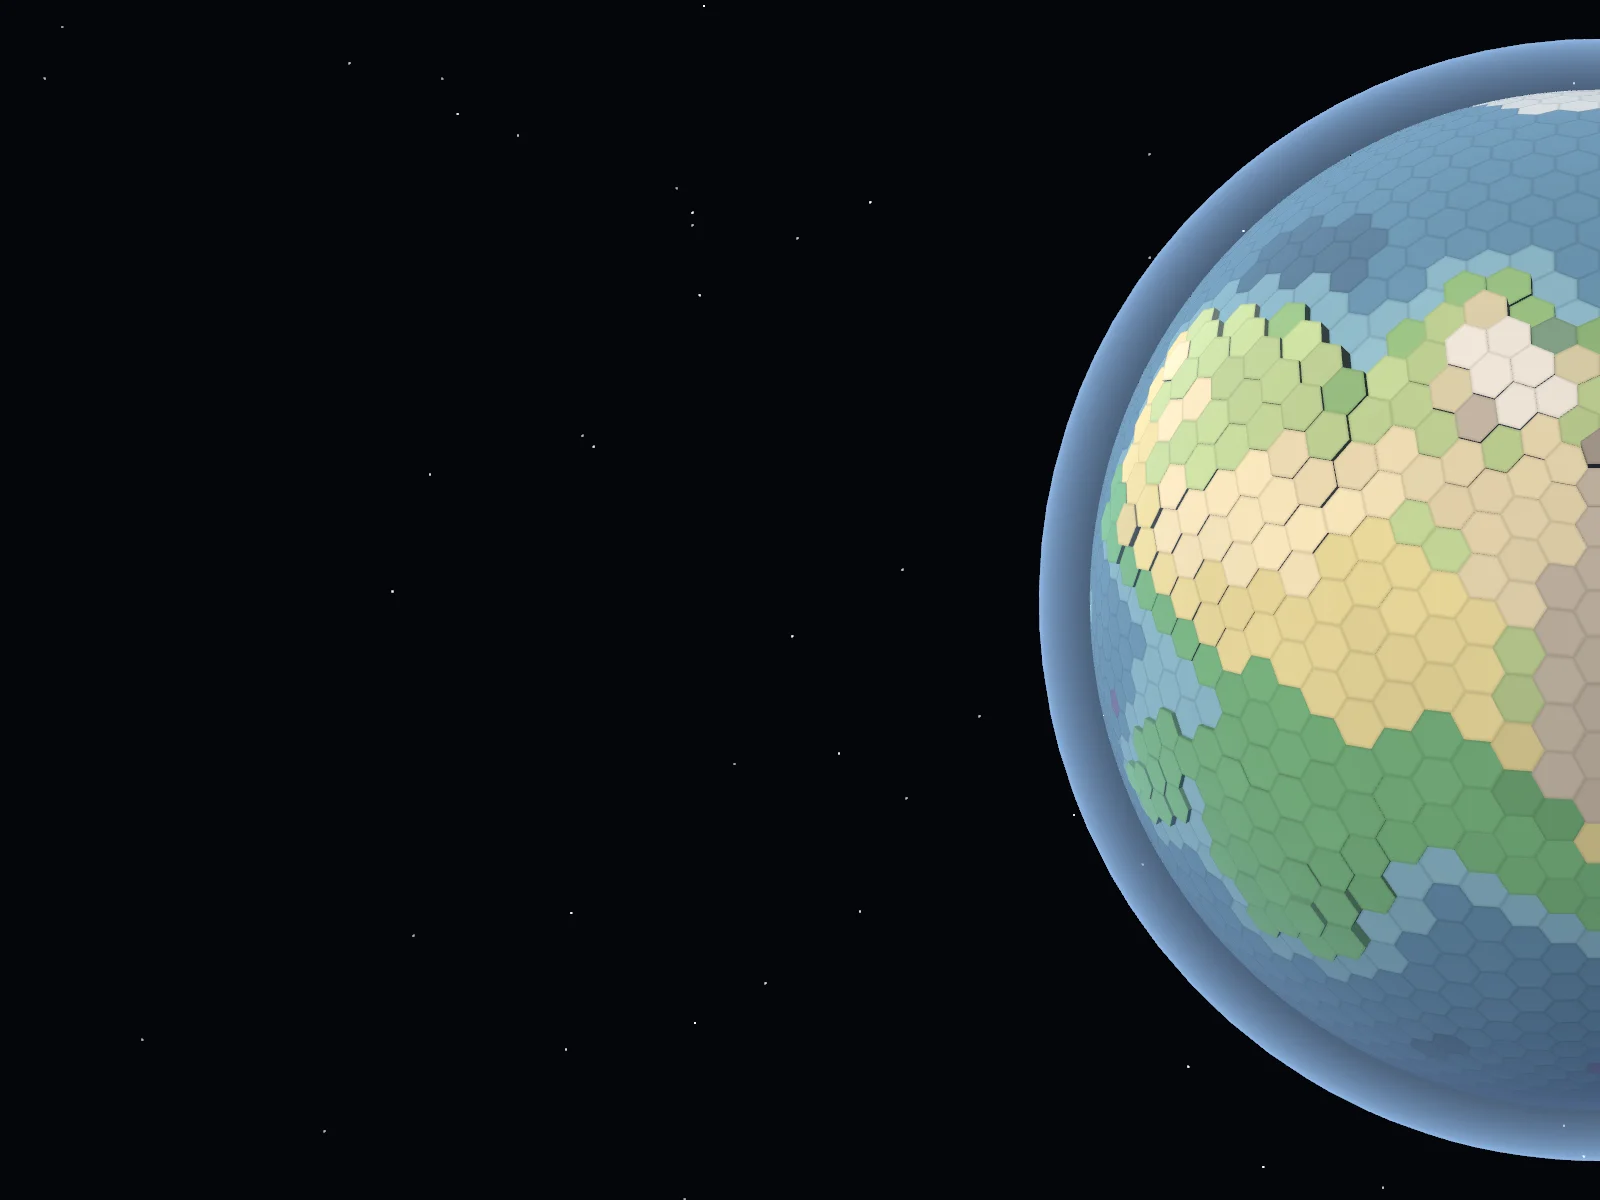
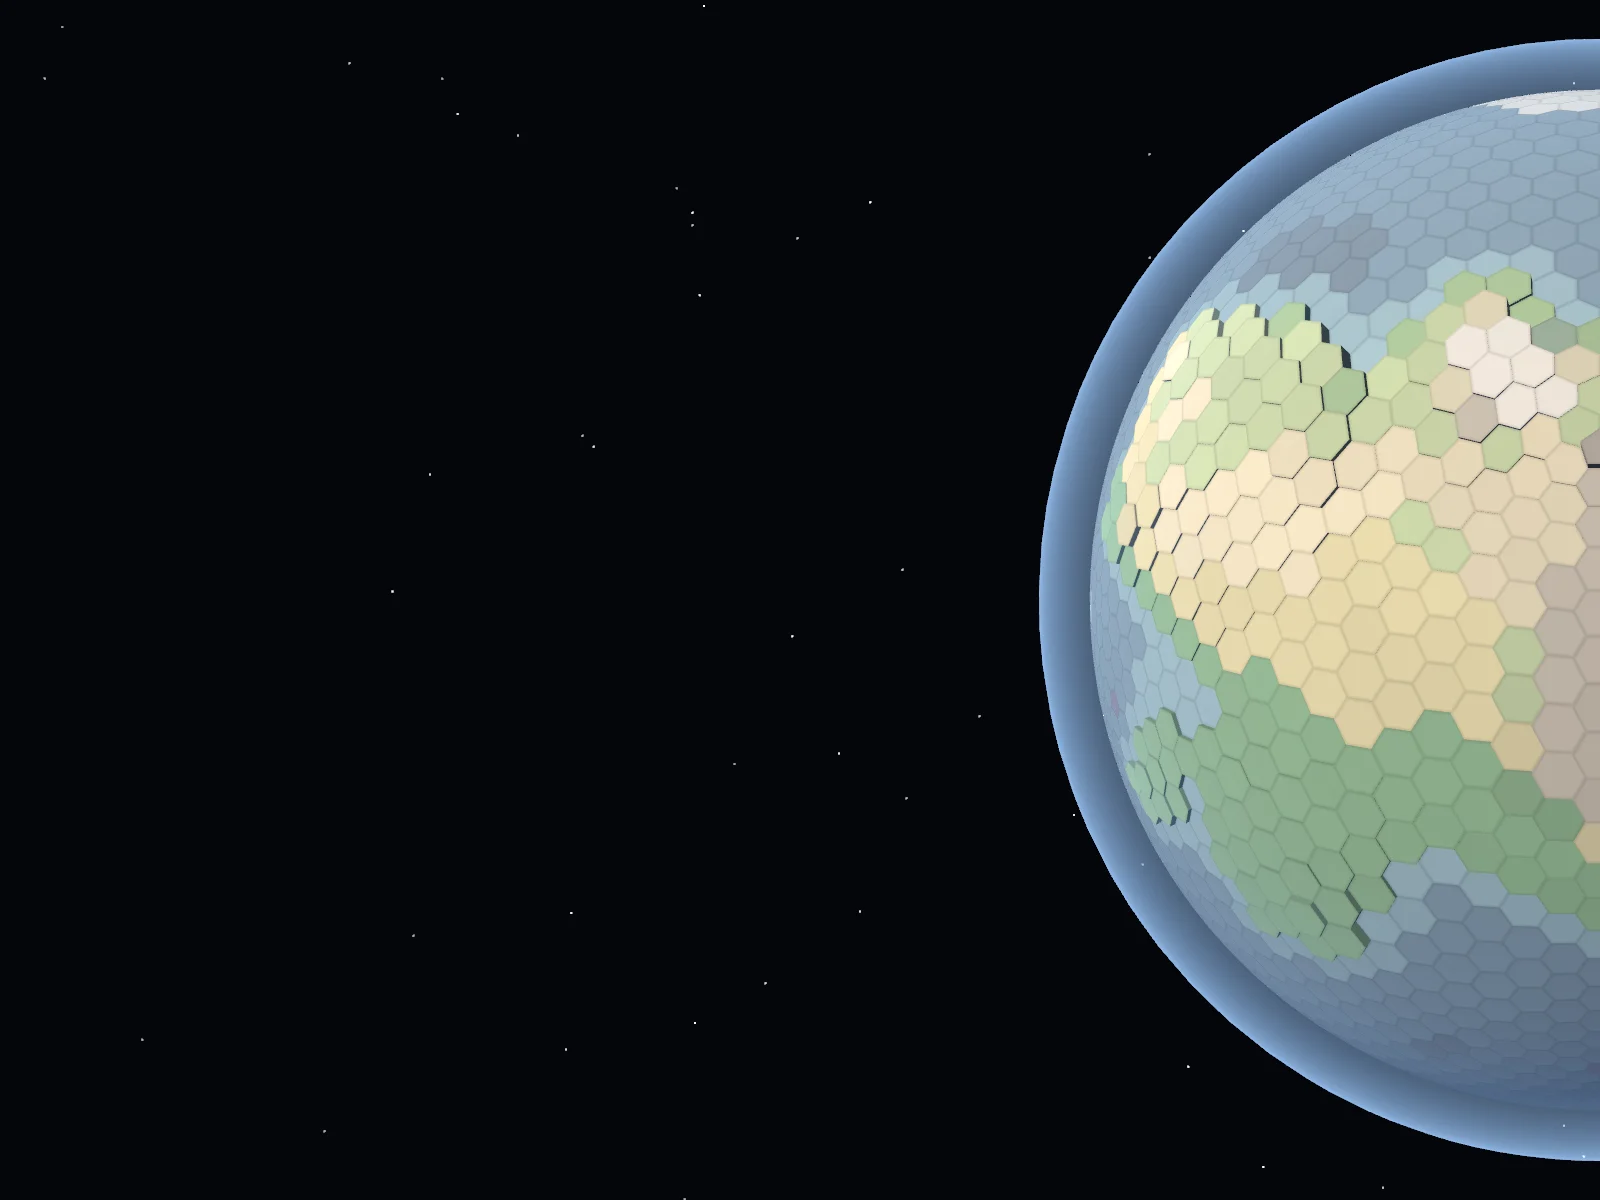
When the human is away : couleurs du globe en pastel (aperçu de la page principale régénéré)

Changed region(s): [[0.6562, 0.3083, 1.0, 0.8325], [0.7188, 0.0925, 1.0, 0.37]]

diff --git a/lib/WhenTheHumanIsAway/globeMesh.ts b/lib/WhenTheHumanIsAway/globeMesh.ts
@@ -1,4 +1,5 @@
-// Géométrie et couleurs du globe, portage de godot/scripts/globe.gd (vue « Biomes »,
+// Géométrie et couleurs du globe, portage de godot/scripts/globe.gd (vue « Biomes », couleurs
+// adoucies en pastel pour le site, voir pastel() ;
 // When the Human's Away, état du 21 novembre 2026, commit a0b47c2).
 // Chaque case est un prisme : dessus (centre + anneau intérieur à la couleur de la case,
 // anneau extérieur plus sombre pour la bordure) et parois vers les voisins plus bas.
@@ -44,6 +45,18 @@ function tileColor(w: World, t: number): Rgb {
     else if (w.biome[t] === BIOME.MOUNTAIN && w.temperature[t] < 0.42) col = lerp(col, WHITE, 0.6);
     const s = 1 + w.shade[t];
     return [col[0] * s, col[1] * s, col[2] * s];
+}
+
+// 🎛 Version pastel du site (le jeu, lui, garde ses couleurs d'origine) :
+// chaque couleur est désaturée vers son gris, puis éclaircie vers le blanc.
+// PASTEL_DESATURATE = 0 et PASTEL_LIGHTEN = 0 rendent exactement les couleurs du jeu.
+const PASTEL_DESATURATE = 0.12;
+const PASTEL_LIGHTEN = 0.14;
+
+function pastel(c: Rgb): Rgb {
+    const grey = 0.299 * c[0] + 0.587 * c[1] + 0.114 * c[2];
+    const d = lerp(c, [grey, grey, grey], PASTEL_DESATURATE);
+    return lerp(d, WHITE, PASTEL_LIGHTEN);
 }
 
 function tileHeight(w: World, t: number): number {
@@ -93,7 +106,7 @@ export function buildGlobeSurfaces(w: World): [SurfaceArrays, SurfaceArrays] {
             const h = heights[t];
             const cs = g.corners[t];
             const k = cs.length;
-            const fill = tileColor(w, t);
+            const fill = pastel(tileColor(w, t));
             const border = darkened(fill, 0.22);
             const wall = darkened(fill, 0.45);
             const base = P.length / 3;
